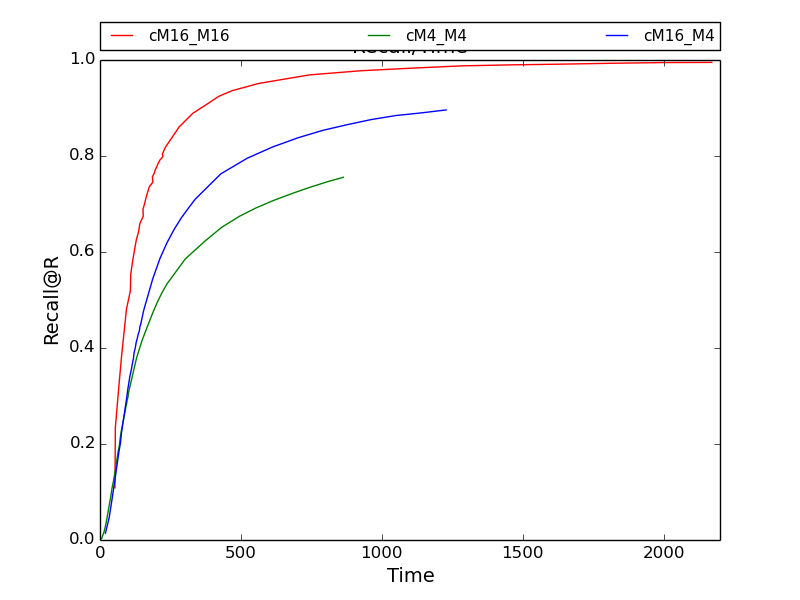
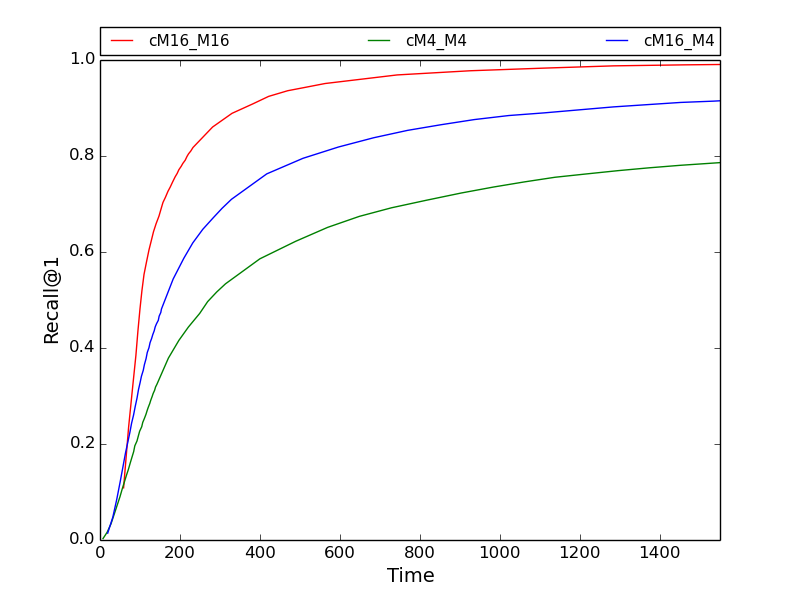
.

diff --git a/recall_us.py b/recall_us.py
@@ -1,32 +1,32 @@
 cM16_M16_txt = '''
-1	0.1087	53.9843 us	230.079 dcs	9.8505 hps
-2	0.2347	55.471 us	313.831 dcs	13.3481 hps
-3	0.3176	67.4942 us	366.165 dcs	15.5699 hps
-4	0.3845	77.7411 us	407.8 dcs	17.3412 hps
-5	0.4353	86.7879 us	444.492 dcs	18.915 hps
-6	0.4813	94.9318 us	477.969 dcs	20.3575 hps
-7	0.5193	108.787 us	509.377 dcs	21.7226 hps
+1	0.1087	58.9843 us	230.079 dcs	9.8505 hps
+2	0.2347	71.471 us	313.831 dcs	13.3481 hps
+3	0.3176	81.4942 us	366.165 dcs	15.5699 hps
+4	0.3845	89.7411 us	407.8 dcs	17.3412 hps
+5	0.4353	94.7879 us	444.492 dcs	18.915 hps
+6	0.4813	99.9318 us	477.969 dcs	20.3575 hps
+7	0.5193	104.787 us	509.377 dcs	21.7226 hps
 8	0.5533	110.035 us	538.614 dcs	22.9999 hps
 9	0.5804	116.517 us	565.844 dcs	24.2043 hps
-10	0.6045	123.504 us	592.159 dcs	25.3713 hps
-11	0.6249	129.618 us	617.286 dcs	26.4909 hps
-12	0.6423	137.77 us	641.592 dcs	27.5795 hps
-13	0.6591	142.296 us	665.889 dcs	28.6761 hps
-14	0.6747	154.412 us	689.142 dcs	29.7322 hps
-15	0.6889	153.354 us	712.826 dcs	30.8069 hps
-16	0.7032	160.421 us	736.084 dcs	31.8682 hps
-17	0.7137	164.425 us	758.332 dcs	32.8812 hps
-18	0.7264	170.906 us	780.667 dcs	33.9105 hps
+10	0.6045	122.504 us	592.159 dcs	25.3713 hps
+11	0.6249	128.618 us	617.286 dcs	26.4909 hps
+12	0.6423	133.77 us	641.592 dcs	27.5795 hps
+13	0.6591	140.296 us	665.889 dcs	28.6761 hps
+14	0.6747	147.412 us	689.142 dcs	29.7322 hps
+15	0.6889	152.354 us	712.826 dcs	30.8069 hps
+16	0.7032	157.421 us	736.084 dcs	31.8682 hps
+17	0.7137	163.425 us	758.332 dcs	32.8812 hps
+18	0.7264	169.906 us	780.667 dcs	33.9105 hps
 19	0.7354	175.649 us	801.858 dcs	34.9025 hps
-20	0.7457	188.417 us	823.291 dcs	35.9013 hps
-21	0.7566	186.863 us	844.592 dcs	36.8949 hps
+20	0.7457	181.417 us	823.291 dcs	35.9013 hps
+21	0.7566	187.863 us	844.592 dcs	36.8949 hps
 22	0.7637	192.925 us	866.068 dcs	37.8991 hps
 23	0.7714	197.168 us	886.991 dcs	38.8785 hps
 24	0.7783	202.818 us	907.921 dcs	39.863 hps
 25	0.7845	207.049 us	928.307 dcs	40.8261 hps
 26	0.7912	212.989 us	948.927 dcs	41.8019 hps
-27	0.7989	224.373 us	970.224 dcs	42.8117 hps
-28	0.8045	222.32 us	990.547 dcs	43.7747 hps
+27	0.7989	217.373 us	970.224 dcs	42.8117 hps
+28	0.8045	221.32 us	990.547 dcs	43.7747 hps
 29	0.8103	226.917 us	1011.24 dcs	44.7558 hps
 30	0.8177	232.456 us	1031.42 dcs	45.7193 hps
 40	0.8604	281.542 us	1228.41 dcs	55.287 hps
@@ -47,103 +47,113 @@ cM16_M16_txt = '''
 460	0.995	2170.71 us	8380.48 dcs	460.541 hps
 '''
 cM16_M4_txt = '''
-1	0.0143	20.33 us	122.398 dcs	7.30965 hps
-2	0.0476	33.8839 us	174.257 dcs	11.4799 hps
-3	0.0853	43.7542 us	211.591 dcs	14.7455 hps
-4	0.1219	52.9637 us	240.386 dcs	17.4436 hps
-5	0.1525	60.5317 us	263.305 dcs	19.6461 hps
-6	0.1812	67.4794 us	284.584 dcs	21.7362 hps
-7	0.2025	73.5588 us	302.898 dcs	23.566 hps
-8	0.2244	77.4499 us	320.198 dcs	25.2993 hps
-9	0.2434	82.2843 us	335.645 dcs	26.8827 hps
-10	0.2602	86.7571 us	350.309 dcs	28.3938 hps
-11	0.2781	91.0536 us	364.329 dcs	29.8432 hps
-12	0.2958	95.615 us	378.802 dcs	31.3441 hps
-13	0.3134	99.4736 us	392.363 dcs	32.775 hps
-14	0.3279	103.493 us	405.559 dcs	34.1572 hps
-15	0.3412	106.961 us	417.597 dcs	35.4337 hps
-16	0.3535	111.669 us	429.605 dcs	36.7378 hps
-17	0.3651	115.182 us	441.088 dcs	37.982 hps
-18	0.3779	119.436 us	452.717 dcs	39.2302 hps
-19	0.3907	122.092 us	464.08 dcs	40.4868 hps
-20	0.4007	126.341 us	475.539 dcs	41.7117 hps
-21	0.4111	129.088 us	486.633 dcs	42.9164 hps
-22	0.4199	133.191 us	497.562 dcs	44.0879 hps
-23	0.4279	136.104 us	508.32 dcs	45.2747 hps
-24	0.4359	140.777 us	518.672 dcs	46.4154 hps
-25	0.444	142.3 us	529.495 dcs	47.5952 hps
-26	0.4504	145.764 us	539.515 dcs	48.7111 hps
-27	0.4577	148.347 us	549.687 dcs	49.8329 hps
-28	0.4663	151.671 us	560.2 dcs	50.9852 hps
-29	0.474	154.177 us	569.969 dcs	52.0854 hps
-30	0.4812	157.346 us	580.184 dcs	53.2104 hps
-40	0.5437	187.827 us	675.807 dcs	64.0128 hps
-50	0.5869	213.9 us	765.016 dcs	74.237 hps
-60	0.619	238.365 us	850.421 dcs	84.2207 hps
-70	0.6473	264.093 us	933.764 dcs	94.0855 hps
-80	0.6714	289.765 us	1015.66 dcs	103.899 hps
-90	0.691	314.214 us	1095.17 dcs	113.591 hps
-100	0.7098	338.372 us	1175.3 dcs	123.392 hps
-140	0.7628	429.5 us	1484.68 dcs	164.618 hps
-180	0.7952	522.738 us	1785.91 dcs	206.384 hps
-220	0.8187	612.713 us	2080.71 dcs	248.141 hps
-260	0.838	703.506 us	2373.39 dcs	285.404 hps
-300	0.8534	791.207 us	2661.09 dcs	321.54 hps
-340	0.8651	876.766 us	2945.61 dcs	357.746 hps
-380	0.8759	962.856 us	3227.56 dcs	394.1 hps
-420	0.8843	1050.43 us	3505.34 dcs	430.39 hps
-460	0.8898	1140.54 us	3782.18 dcs	466.838 hps
-500	0.896	1228.64 us	4054.3 dcs	503.145 hps
+1	0.0143	19.217 us	122.398 dcs	7.30965 hps
+2	0.0476	32.0744 us	174.257 dcs	11.4799 hps
+3	0.0853	42.0453 us	211.591 dcs	14.7455 hps
+4	0.1219	50.5798 us	240.386 dcs	17.4436 hps
+5	0.1525	57.386 us	263.305 dcs	19.6461 hps
+6	0.1812	63.7129 us	284.584 dcs	21.7362 hps
+7	0.2025	69.2111 us	302.898 dcs	23.566 hps
+8	0.2244	74.7485 us	320.198 dcs	25.2993 hps
+9	0.2434	78.994 us	335.645 dcs	26.8827 hps
+10	0.2602	83.8668 us	350.309 dcs	28.3938 hps
+11	0.2781	88.0374 us	364.329 dcs	29.8432 hps
+12	0.2958	92.5817 us	378.802 dcs	31.3441 hps
+13	0.3134	96.2553 us	392.363 dcs	32.775 hps
+14	0.3279	100.257 us	405.559 dcs	34.1572 hps
+15	0.3412	103.597 us	417.597 dcs	35.4337 hps
+16	0.3535	108.155 us	429.605 dcs	36.7378 hps
+17	0.3651	110.937 us	441.088 dcs	37.982 hps
+18	0.3779	115.177 us	452.717 dcs	39.2302 hps
+19	0.3907	118.176 us	464.08 dcs	40.4868 hps
+20	0.4007	122.453 us	475.539 dcs	41.7117 hps
+21	0.4111	125.133 us	486.633 dcs	42.9164 hps
+22	0.4199	129.076 us	497.562 dcs	44.0879 hps
+23	0.4279	131.937 us	508.32 dcs	45.2747 hps
+24	0.4359	135.553 us	518.672 dcs	46.4154 hps
+25	0.444	138.005 us	529.495 dcs	47.5952 hps
+26	0.4504	141.207 us	539.515 dcs	48.7111 hps
+27	0.4577	145.767 us	549.687 dcs	49.8329 hps
+28	0.4663	147.851 us	560.2 dcs	50.9852 hps
+29	0.474	151.996 us	569.969 dcs	52.0854 hps
+30	0.4812	153.643 us	580.184 dcs	53.2104 hps
+40	0.5437	182.901 us	675.807 dcs	64.0128 hps
+50	0.5869	209.52 us	765.016 dcs	74.237 hps
+60	0.619	231.996 us	850.421 dcs	84.2207 hps
+70	0.6473	256.997 us	933.764 dcs	94.0855 hps
+80	0.6714	283.19 us	1015.66 dcs	103.899 hps
+90	0.691	305.156 us	1095.17 dcs	113.591 hps
+100	0.7098	328.674 us	1175.3 dcs	123.392 hps
+140	0.7628	416.965 us	1484.68 dcs	164.618 hps
+180	0.7952	507.501 us	1785.91 dcs	206.384 hps
+220	0.8187	596.027 us	2080.71 dcs	248.141 hps
+260	0.838	684.078 us	2373.39 dcs	285.404 hps
+300	0.8534	768.943 us	2661.09 dcs	321.54 hps
+340	0.8651	852.126 us	2945.61 dcs	357.746 hps
+380	0.8759	935.877 us	3227.56 dcs	394.1 hps
+420	0.8843	1022 us	3505.34 dcs	430.39 hps
+460	0.8898	1109.81 us	3782.18 dcs	466.838 hps
+500	0.896	1195.86 us	4054.3 dcs	503.145 hps
+540	0.9023	1283.68 us	4325.59 dcs	548.809 hps
+580	0.9072	1371.9 us	4594.33 dcs	597.425 hps
+620	0.9116	1451.9 us	4861.61 dcs	646.073 hps
+660	0.9143	1534.29 us	5127.27 dcs	694.736 hps
+700	0.918	1615.29 us	5390.89 dcs	743.456 hps
 '''
 
 cM4_M4_txt = '''
-1	0.003	6.8776 us	40.7297 dcs	6.55673 hps
-2	0.0162	14.9137 us	72.4297 dcs	11.9064 hps
-3	0.0337	22.1105 us	98.4861 dcs	16.2134 hps
-4	0.0554	28.7269 us	120.732 dcs	19.898 hps
-5	0.0739	34.1416 us	139.333 dcs	22.9998 hps
-6	0.0903	39.1438 us	155.693 dcs	25.7549 hps
-7	0.1065	43.1164 us	170.471 dcs	28.2603 hps
-8	0.1218	48.5114 us	183.577 dcs	30.4864 hps
-9	0.1346	52.2006 us	195.949 dcs	32.5985 hps
-10	0.1471	56.0329 us	207.813 dcs	34.6317 hps
-11	0.1607	59.0176 us	218.968 dcs	36.5575 hps
-12	0.1733	62.4691 us	229.885 dcs	38.4356 hps
-13	0.184	65.2546 us	240.204 dcs	40.2208 hps
-14	0.1962	69.5889 us	250.433 dcs	41.9991 hps
-15	0.2063	71.3141 us	259.496 dcs	43.5876 hps
-16	0.2174	73.9724 us	268.708 dcs	45.1963 hps
-17	0.2266	76.3704 us	277.348 dcs	46.7067 hps
-18	0.2359	79.6765 us	286.642 dcs	48.3292 hps
-19	0.2451	82.1737 us	295.22 dcs	49.8332 hps
-20	0.2527	85.2058 us	303.661 dcs	51.3229 hps
-21	0.2618	87.5073 us	311.969 dcs	52.7833 hps
-22	0.2702	90.759 us	320.329 dcs	54.2621 hps
-23	0.2765	92.5968 us	328.237 dcs	55.6591 hps
-24	0.2843	95.7274 us	336.669 dcs	57.1501 hps
-25	0.2912	97.3353 us	344.285 dcs	58.4973 hps
-26	0.2988	100.635 us	352.126 dcs	59.8955 hps
-27	0.3052	101.807 us	359.41 dcs	61.1891 hps
-28	0.312	104.204 us	367.096 dcs	62.5647 hps
-29	0.3187	106.677 us	374.789 dcs	63.9311 hps
-30	0.3242	108.964 us	381.849 dcs	65.1927 hps
-40	0.379	130.515 us	451.668 dcs	77.7742 hps
-50	0.4159	150.294 us	514.787 dcs	89.277 hps
-60	0.4435	168.265 us	574.737 dcs	100.333 hps
-70	0.472	187.275 us	632.388 dcs	111.052 hps
-80	0.4967	205.345 us	687.449 dcs	121.405 hps
-90	0.5167	222.155 us	742.254 dcs	132.051 hps
-100	0.5337	238.773 us	797.453 dcs	143.344 hps
-140	0.5858	303.883 us	1005.5 dcs	186.524 hps
-180	0.6223	372.577 us	1207.06 dcs	229.158 hps
-220	0.6513	432.373 us	1404.97 dcs	269.413 hps
-260	0.6742	494.892 us	1599.23 dcs	305.641 hps
-300	0.6921	555.288 us	1790.63 dcs	341.782 hps
-340	0.7079	618.708 us	1980.02 dcs	377.863 hps
-380	0.7229	687.137 us	2168.19 dcs	414.032 hps
-420	0.7354	748.637 us	2355.72 dcs	450.346 hps
-460	0.7461	806.277 us	2540.73 dcs	486.426 hps
-500	0.7557	864.085 us	2725.67 dcs	526.29 hps
+1	0.003	7.5835 us	40.7297 dcs	6.55673 hps
+2	0.0162	17.9025 us	72.4297 dcs	11.9064 hps
+3	0.0337	27.5032 us	98.4861 dcs	16.2134 hps
+4	0.0554	36.195 us	120.732 dcs	19.898 hps
+5	0.0739	43.5132 us	139.333 dcs	22.9998 hps
+6	0.0903	49.9931 us	155.693 dcs	25.7549 hps
+7	0.1065	55.6048 us	170.471 dcs	28.2603 hps
+8	0.1218	61.2945 us	183.577 dcs	30.4864 hps
+9	0.1346	66.034 us	195.949 dcs	32.5985 hps
+10	0.1471	70.9969 us	207.813 dcs	34.6317 hps
+11	0.1607	75.6699 us	218.968 dcs	36.5575 hps
+12	0.1733	80.225 us	229.885 dcs	38.4356 hps
+13	0.184	84.1411 us	240.204 dcs	40.2208 hps
+14	0.1962	87.0412 us	250.433 dcs	41.9991 hps
+15	0.2063	92.4858 us	259.496 dcs	43.5876 hps
+16	0.2174	96.0647 us	268.708 dcs	45.1963 hps
+17	0.2266	99.0916 us	277.348 dcs	46.7067 hps
+18	0.2359	104.29 us	286.642 dcs	48.3292 hps
+19	0.2451	106.89 us	295.22 dcs	49.8332 hps
+20	0.2527	110.73 us	303.661 dcs	51.3229 hps
+21	0.2618	114.918 us	311.969 dcs	52.7833 hps
+22	0.2702	118.055 us	320.329 dcs	54.2621 hps
+23	0.2765	120.67 us	328.237 dcs	55.6591 hps
+24	0.2843	124.368 us	336.669 dcs	57.1501 hps
+25	0.2912	126.91 us	344.285 dcs	58.4973 hps
+26	0.2988	130.296 us	352.126 dcs	59.8955 hps
+27	0.3052	132.867 us	359.41 dcs	61.1891 hps
+28	0.312	136.558 us	367.096 dcs	62.5647 hps
+29	0.3187	138.868 us	374.789 dcs	63.9311 hps
+30	0.3242	142.188 us	381.849 dcs	65.1927 hps
+40	0.379	171.033 us	451.668 dcs	77.7742 hps
+50	0.4159	197.222 us	514.787 dcs	89.277 hps
+60	0.4435	220.853 us	574.737 dcs	100.333 hps
+70	0.472	249.179 us	632.388 dcs	111.052 hps
+80	0.4967	269.202 us	687.449 dcs	121.405 hps
+90	0.5167	291.803 us	742.254 dcs	132.051 hps
+100	0.5337	313.739 us	797.453 dcs	143.344 hps
+140	0.5858	399.672 us	1005.5 dcs	186.524 hps
+180	0.6223	489.184 us	1207.06 dcs	229.158 hps
+220	0.6513	569.073 us	1404.97 dcs	269.413 hps
+260	0.6742	648.253 us	1599.23 dcs	305.641 hps
+300	0.6921	728.735 us	1790.63 dcs	341.782 hps
+340	0.7079	816.413 us	1980.02 dcs	377.863 hps
+380	0.7229	903.076 us	2168.19 dcs	414.032 hps
+420	0.7354	984.082 us	2355.72 dcs	450.346 hps
+460	0.7461	1061.47 us	2540.73 dcs	486.426 hps
+500	0.7557	1137.46 us	2725.67 dcs	526.29 hps
+540	0.7626	1215.5 us	2909.69 dcs	574.748 hps
+580	0.7695	1295.44 us	3094.1 dcs	623.467 hps
+620	0.7753	1371.74 us	3276.07 dcs	671.88 hps
+660	0.7806	1450.59 us	3457.48 dcs	720.399 hps
+700	0.7862	1550.36 us	3637.52 dcs	768.804 hps
 '''
 
 \
@@ -168,9 +178,9 @@ plt.plot(cM16_M16_us, cM16_M16, 'r', label = 'cM16_M16')
 plt.plot(cM4_M4_us, cM4_M4, 'g', label = 'cM4_M4')
 plt.plot(cM16_M4_us, cM16_M4, 'b', label = 'cM16_M4')
 
-plt.axis([1, 2200, 0, 1])
+plt.axis([0, 1550, 0, 1])
 plt.xlabel('Time', fontsize=14)
-plt.ylabel('Recall@R', fontsize=14)
+plt.ylabel('Recall@1', fontsize=14)
 # plt.text(ef[-1]+1, cM16_M16[-1], 'cM16_M16_ef_240', fontsize=9, color=(1,0,0))
 # plt.text(ef[-1]+1, float(cM16_M2[-1])-0.1, 'cM16_M2_ef_240', fontsize=9, color=(0,0,1))
 # plt.text(ef[-1]+1, cM2_M2[-1], 'cM2_M2_ef_240', fontsize=9, color=(0,0.7,0))
@@ -181,7 +191,7 @@ plt.ylabel('Recall@R', fontsize=14)
 
 
 plt.title('Recall/Time')
-plt.legend(bbox_to_anchor=(0., 1.02, 1., .102), loc=3,
+plt.legend(bbox_to_anchor=(0., 1.01, 1., .101), loc=3,
            ncol=3, mode="expand", borderaxespad=0., prop={'size': 11})
 plt.savefig('recall_us.png')
 #plt.s:ow()

diff --git a/sift_1b.cpp b/sift_1b.cpp
@@ -414,11 +414,11 @@ static void _hnsw_test(const char *path_codebooks, const char *path_tables, cons
     const bool PQ = (path_codebooks && path_tables);
 
     const int specsize = 10000000;//101917929;
-    const map<size_t, pair<size_t, size_t>> M_map = {{vecsize, {M, 2*M}}};
+    //const map<size_t, pair<size_t, size_t>> M_map = {{vecsize, {M, 2*M}}};
     //const map<size_t, pair<size_t, size_t>> M_map = {{specsize, {16, 32}}, {vecsize-specsize, {M, 2*M}}, {vecsize, {M, 2*M}}};
     //const map<size_t, size_t> M_map = {{50000000, 32}, {100000000, 24}, {150000000, 16}, {800000000, 8}, {900000000, 6}, {1000000000, 4}};
-    //const map<size_t, pair<size_t, size_t>> M_map = {{100000000, {16, 32}},{200000000, {10, 20}},{400000000, {5, 10}},
-    //                                                 {600000000, {5, 9}},{800000000, {5, 8}},{900000000, {5, 7}},{vecsize, {5, 6}}};
+    const map<size_t, pair<size_t, size_t>> M_map = {{50000000, {16, 32}},{100000000, {12, 24}},{200000000, {8, 16}},{400000000, {4, 9}},
+                                                     {600000000, {4, 8}},{800000000, {4, 7}},{900000000, {4, 6}},{vecsize, {4, 5}}};
     //
     const vector<size_t> elements_per_level;// = {100000000, 5000000, 250000, 12500, 625, 32};
     //const map<size_t, pair<size_t, size_t>> M_map = {{5263157, {16, 32}}, {vecsize, {M, 2*M}}};
